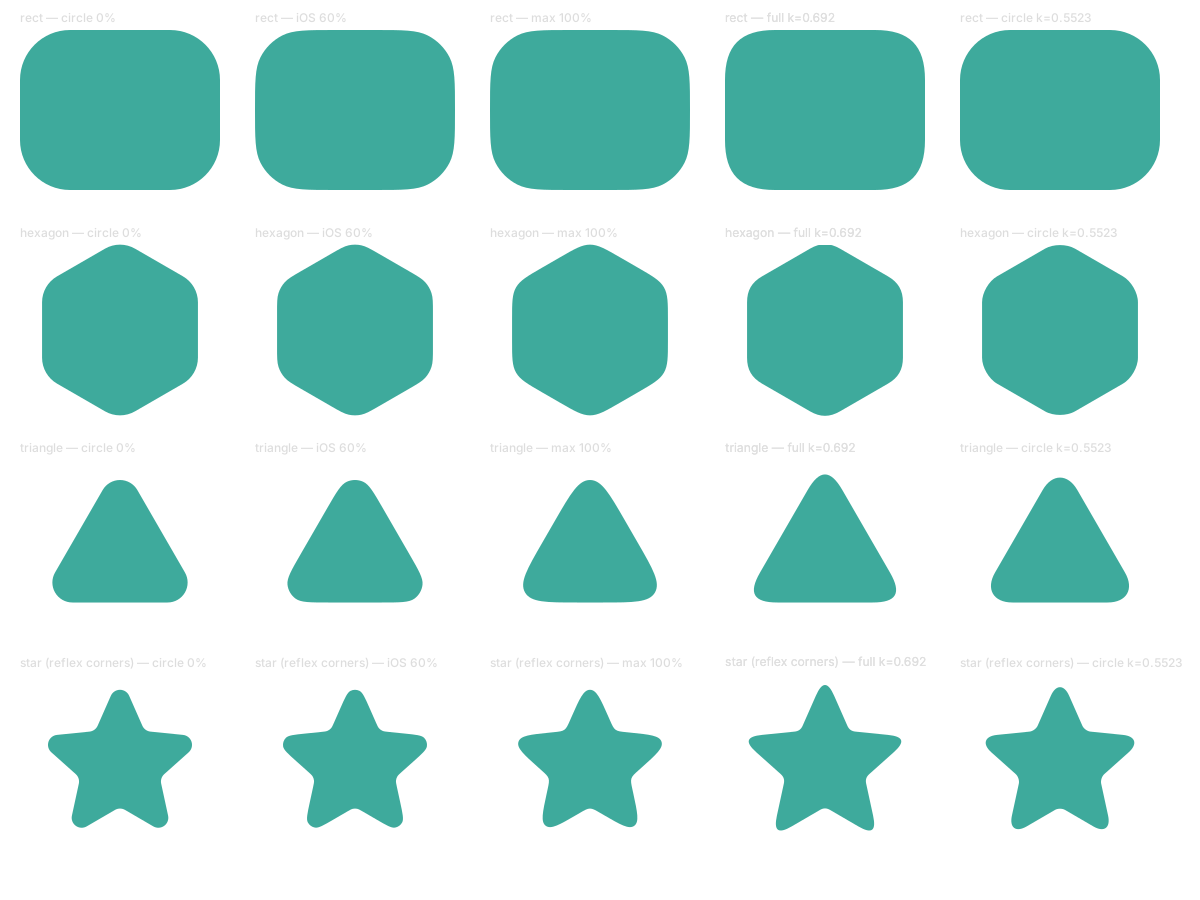
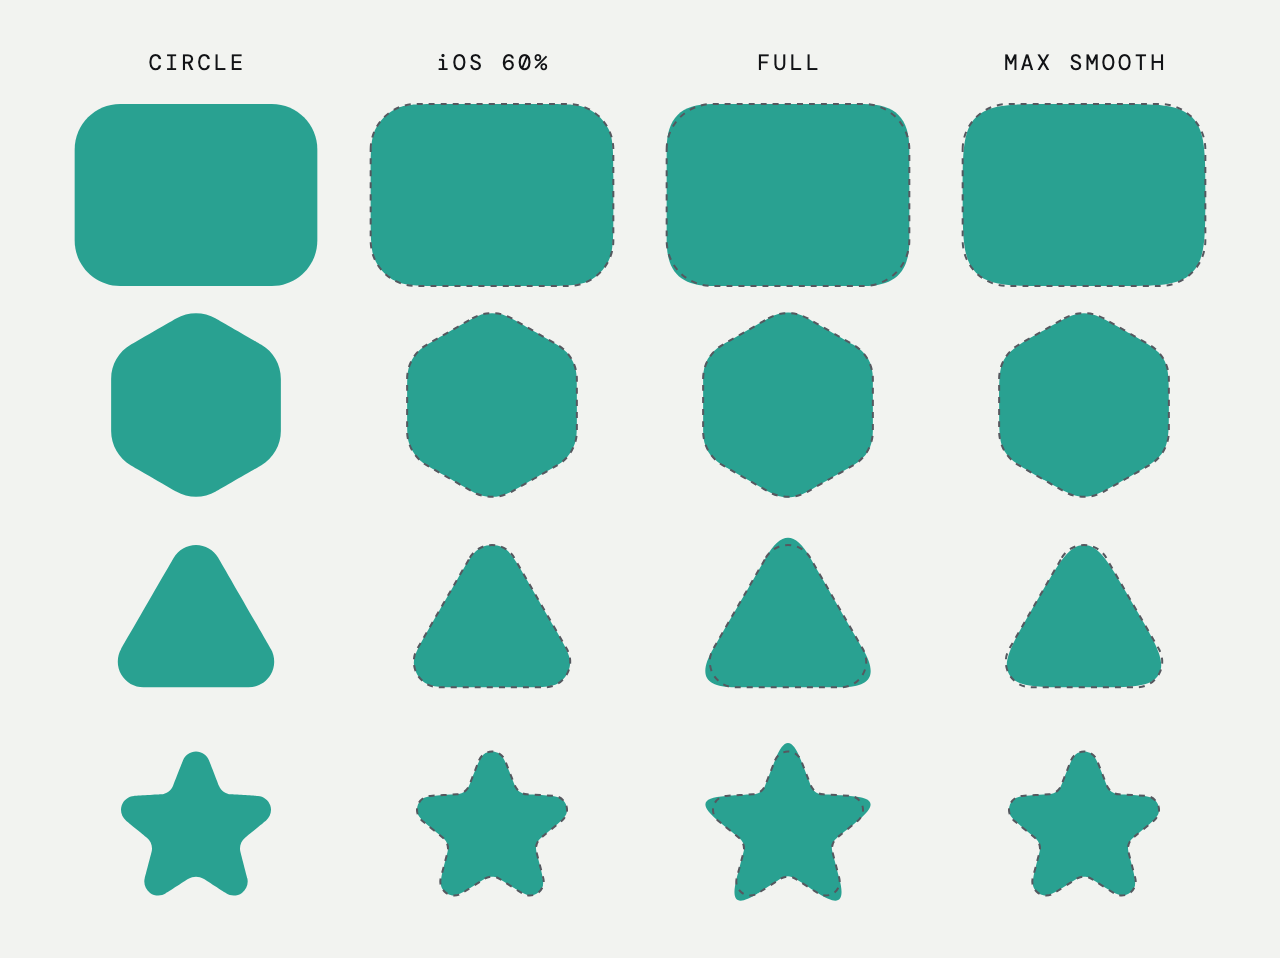
Smooth Corners 1.4.3: Scale menu on the Radius row, new styles preview
- The Scale menu moves onto the Radius heading row, aligned right, so the size
  chips sit directly under the radius field. It hides while the unit is %.
  The panel fits down to 220px wide.
- corner-styles-preview.png is the new four-column image (Circle, iOS 60%,
  Full, Max smooth) drawn with this engine, with Illustrator's round corner
  dashed on every style but Circle.
- Engine math is unchanged.

diff --git a/cep/com.jro.smoothcorners/index.html b/cep/com.jro.smoothcorners/index.html
@@ -25,6 +25,8 @@
   h2 { font-size: 11px; font-weight: 600; color: var(--dim); text-transform: uppercase; letter-spacing: .06em; margin: 14px 0 7px; }
   h2:first-child { margin-top: 2px; }
   #smoothBlock > h2, #cubicBlock > h2 { margin-top: 14px; }
+  .h2row { display: flex; align-items: center; justify-content: space-between; gap: 8px; margin: 14px 0 5px; min-height: 22px; }
+  .h2row h2 { margin: 0; }
   .row { display: flex; gap: 6px; align-items: center; }
   .seg { display: flex; background: var(--field); border-radius: 6px; padding: 2px; }
   .seg button { flex: 1; border: 0; background: transparent; color: var(--dim); padding: 6px 4px; border-radius: 4px; font: inherit; cursor: pointer; }
@@ -39,8 +41,8 @@
   select { flex: 0 0 auto; }
 
   .chips { display: flex; flex-wrap: wrap; gap: 5px; margin-bottom: 4px; align-items: center; }
-  #sizeChips { margin-top: 8px; }
-  .scale { margin-left: auto; display: flex; align-items: center; gap: 5px; color: var(--dim); font-size: 10.5px; }
+  #sizeChips { margin-top: 6px; }
+  .scale { display: flex; align-items: center; gap: 5px; color: var(--dim); font-size: 10.5px; }
   .scale select { height: 22px; font-size: 11px; padding: 0 4px; }
   .chip { background: var(--field); border: 1px solid transparent; color: var(--text); border-radius: 12px; padding: 3px 9px; font: inherit; cursor: pointer; }
   .chip:hover { background: var(--field-h); }
@@ -110,7 +112,7 @@
 </style>
 </head>
 <body>
-  <div id="boot" style="color:#9a9a9a;font-size:11px;padding:4px 0 8px">Loading Smooth Corners 1.4.2…</div>
+  <div id="boot" style="color:#9a9a9a;font-size:11px;padding:4px 0 8px">Loading Smooth Corners 1.4.3…</div>
   <pre id="bootError" style="display:none;white-space:pre-wrap;color:#f2b3ae;background:#3a2a2a;padding:8px;border-radius:5px;font-size:11px"></pre>
 
   <div class="brand"><svg viewBox="0 0 283 235" role="img" aria-label="JRO" xmlns="http://www.w3.org/2000/svg"><path d="M89.00 1.00C89.00 64.17 89.00 127.33 89.00 190.50C89.00 221.30 75.29 235.00 44.50 235.00C29.10 235.00 17.97 231.58 10.70 224.30C3.43 217.02 0.00 205.90 0.00 190.50C0.00 175.33 0.00 160.17 0.00 145.00C11.33 145.00 22.67 145.00 34.00 145.00C34.00 169.83 34.00 194.67 34.00 219.50C34.00 223.14 34.81 225.76 36.52 227.48C38.24 229.19 40.87 230.00 44.50 230.00C51.76 230.00 55.00 226.77 55.00 219.50C55.00 146.67 55.00 73.83 55.00 1.00C66.33 1.00 77.67 1.00 89.00 1.00Z" fill="#ffffff" fill-rule="evenodd"/><path d="M197.80 229.53C197.64 229.36 197.48 229.18 197.32 229.00C189.63 220.42 186.00 207.73 186.00 190.50C186.00 165.33 186.00 140.17 186.00 115.00C186.00 104.46 180.07 95.30 171.36 90.69C181.40 87.31 186.00 79.03 186.00 65.00C186.00 52.83 186.00 40.67 186.00 28.50C186.00 9.47 177.53 1.00 158.50 1.00C138.00 1.00 117.50 1.00 97.00 1.00C97.00 78.67 97.00 156.33 97.00 234.00C108.33 234.00 119.67 234.00 131.00 234.00C131.00 186.83 131.00 139.67 131.00 92.50C134.50 92.50 138.00 92.50 141.50 92.50C148.76 92.50 152.00 95.74 152.00 103.00C152.00 137.50 152.00 172.00 152.00 206.50C152.00 225.54 160.46 234.00 179.50 234.00C186.00 234.00 192.50 234.00 199.00 234.00C199.00 232.92 199.00 231.83 199.00 230.75C198.59 230.36 198.19 229.95 197.80 229.53ZM152.00 77.00C152.00 84.27 148.76 87.50 141.50 87.50C138.00 87.50 134.50 87.50 131.00 87.50C131.00 60.33 131.00 33.17 131.00 6.00C134.50 6.00 138.00 6.00 141.50 6.00C148.76 6.00 152.00 9.24 152.00 16.50C152.00 36.67 152.00 56.83 152.00 77.00Z" fill="#ffffff" fill-rule="evenodd"/><path d="M272.30 10.70C265.02 3.43 253.89 0.00 238.50 0.00C207.70 0.00 194.00 13.71 194.00 44.50C194.00 93.17 194.00 141.83 194.00 190.50C194.00 205.90 197.43 217.02 204.70 224.30C211.97 231.58 223.10 235.00 238.50 235.00C269.29 235.00 283.00 221.30 283.00 190.50C283.00 141.83 283.00 93.17 283.00 44.50C283.00 29.10 279.57 17.98 272.30 10.70ZM249.00 219.50C249.00 226.77 245.76 230.00 238.50 230.00C234.87 230.00 232.24 229.19 230.52 227.48C228.81 225.76 228.00 223.14 228.00 219.50C228.00 151.50 228.00 83.50 228.00 15.50C228.00 8.24 231.23 5.00 238.50 5.00C242.13 5.00 244.76 5.81 246.48 7.53C248.19 9.24 249.00 11.87 249.00 15.50C249.00 83.50 249.00 151.50 249.00 219.50Z" fill="#ffffff" fill-rule="evenodd"/></svg><span>Smooth Corners</span></div>
@@ -141,7 +143,7 @@
   </div>
   <div class="hint" id="cornerHint">Click corners in the square to round only those.</div>
 
-  <h2>Radius</h2>
+  <div class="h2row"><h2>Radius</h2><label class="scale" id="scaleWrap">Scale <select id="scale" title="Size scale"></select></label></div>
   <div class="row">
     <div class="radius-field" id="radiusField">
       <svg width="12" height="12" viewBox="0 0 12 12"><path d="M1 11V6a5 5 0 0 1 5-5h5" fill="none" stroke="#ddd" stroke-width="1.4"/></svg>

diff --git a/cep/com.jro.smoothcorners/js/main.js b/cep/com.jro.smoothcorners/js/main.js
@@ -105,7 +105,7 @@
   }
 
   /* ---------- UI: size presets ---------- */
-  /* Size chips sit right under the radius field. "Common" is the default scale; Doubling, Fine and Fibonacci come
+  /* Size chips sit right under the radius field and the Scale menu is on the Radius heading row. "Common" is the default scale; Doubling, Fine and Fibonacci come
      from the engine's presets. The % of side chips replace them only while the unit is %. Saved presets get their
      own row underneath. */
   var COMMON = [2, 4, 8, 12, 16, 24];
@@ -133,15 +133,15 @@
       };
       box.appendChild(b);
     });
-    if (!rel) {
-      var wrap = document.createElement("span"); wrap.className = "scale";
-      var lab = document.createElement("span"); lab.textContent = "Scale";
-      var sel = document.createElement("select"); sel.title = "Size scale";
+    // the Scale menu lives on the Radius heading row; it only applies to the pt/px/mm/in chips
+    var sel = $("scale");
+    $("scaleWrap").style.display = rel ? "none" : "";
+    if (sel.options.length !== all.length) {
+      sel.innerHTML = "";
       all.forEach(function (sc) { var o = document.createElement("option"); o.value = sc.id; o.textContent = sc.label; sel.appendChild(o); });
-      sel.value = state.scale;
       sel.onchange = function () { state.scale = sel.value; store(); render(); };
-      wrap.appendChild(lab); wrap.appendChild(sel); box.appendChild(wrap);
     }
+    sel.value = state.scale;
     var sbox = $("savedChips"); sbox.innerHTML = "";
     saved.forEach(function (p, i) {
       var b = document.createElement("button");

diff --git a/SmoothCorners-FixScaled.jsx b/SmoothCorners-FixScaled.jsx
@@ -1,5 +1,5 @@
 #target illustrator
-/*  Smooth Corners for Adobe Illustrator — v1.4.2
+/*  Smooth Corners for Adobe Illustrator — v1.4.3
     Figma / iOS-style corner smoothing + a fuller single-curve 'Full' corner preset (k = 0.692).
     Built 2026-10-07. Runs in Illustrator 2024 and newer.  */
 
@@ -30,7 +30,7 @@
 
 var SC = (typeof SC !== "undefined") ? SC : {};
 
-SC.VERSION = "1.4.2";
+SC.VERSION = "1.4.3";
 SC.EPS = 1e-6;
 SC.K_CIRCLE = 0.5522847498307936;   // 4/3 * tan(pi/8)
 SC.K_FULL = 0.692;                  // fuller single-curve corner

diff --git a/SmoothCorners.jsx b/SmoothCorners.jsx
@@ -1,5 +1,5 @@
 #target illustrator
-/*  Smooth Corners for Adobe Illustrator — v1.4.2
+/*  Smooth Corners for Adobe Illustrator — v1.4.3
     Figma / iOS-style corner smoothing + a fuller single-curve 'Full' corner preset (k = 0.692).
     Built 2026-10-07. Runs in Illustrator 2024 and newer.  */
 
@@ -30,7 +30,7 @@
 
 var SC = (typeof SC !== "undefined") ? SC : {};
 
-SC.VERSION = "1.4.2";
+SC.VERSION = "1.4.3";
 SC.EPS = 1e-6;
 SC.K_CIRCLE = 0.5522847498307936;   // 4/3 * tan(pi/8)
 SC.K_FULL = 0.692;                  // fuller single-curve corner

diff --git a/cep/com.jro.smoothcorners/js/engine-core.js b/cep/com.jro.smoothcorners/js/engine-core.js
@@ -1,4 +1,4 @@
-/*  Smooth Corners for Adobe Illustrator — v1.4.2
+/*  Smooth Corners for Adobe Illustrator — v1.4.3
     Figma / iOS-style corner smoothing + a fuller single-curve 'Full' corner preset (k = 0.692).
     Built 2026-10-07. Runs in Illustrator 2024 and newer.  */
 
@@ -29,7 +29,7 @@
 
 var SC = (typeof SC !== "undefined") ? SC : {};
 
-SC.VERSION = "1.4.2";
+SC.VERSION = "1.4.3";
 SC.EPS = 1e-6;
 SC.K_CIRCLE = 0.5522847498307936;   // 4/3 * tan(pi/8)
 SC.K_FULL = 0.692;                  // fuller single-curve corner

diff --git a/cep/com.jro.smoothcorners/jsx/engine.jsx b/cep/com.jro.smoothcorners/jsx/engine.jsx
@@ -1,4 +1,4 @@
-/*  Smooth Corners for Adobe Illustrator — v1.4.2
+/*  Smooth Corners for Adobe Illustrator — v1.4.3
     Figma / iOS-style corner smoothing + a fuller single-curve 'Full' corner preset (k = 0.692).
     Built 2026-10-07. Runs in Illustrator 2024 and newer.  */
 
@@ -29,7 +29,7 @@
 
 var SC = (typeof SC !== "undefined") ? SC : {};
 
-SC.VERSION = "1.4.2";
+SC.VERSION = "1.4.3";
 SC.EPS = 1e-6;
 SC.K_CIRCLE = 0.5522847498307936;   // 4/3 * tan(pi/8)
 SC.K_FULL = 0.692;                  // fuller single-curve corner
